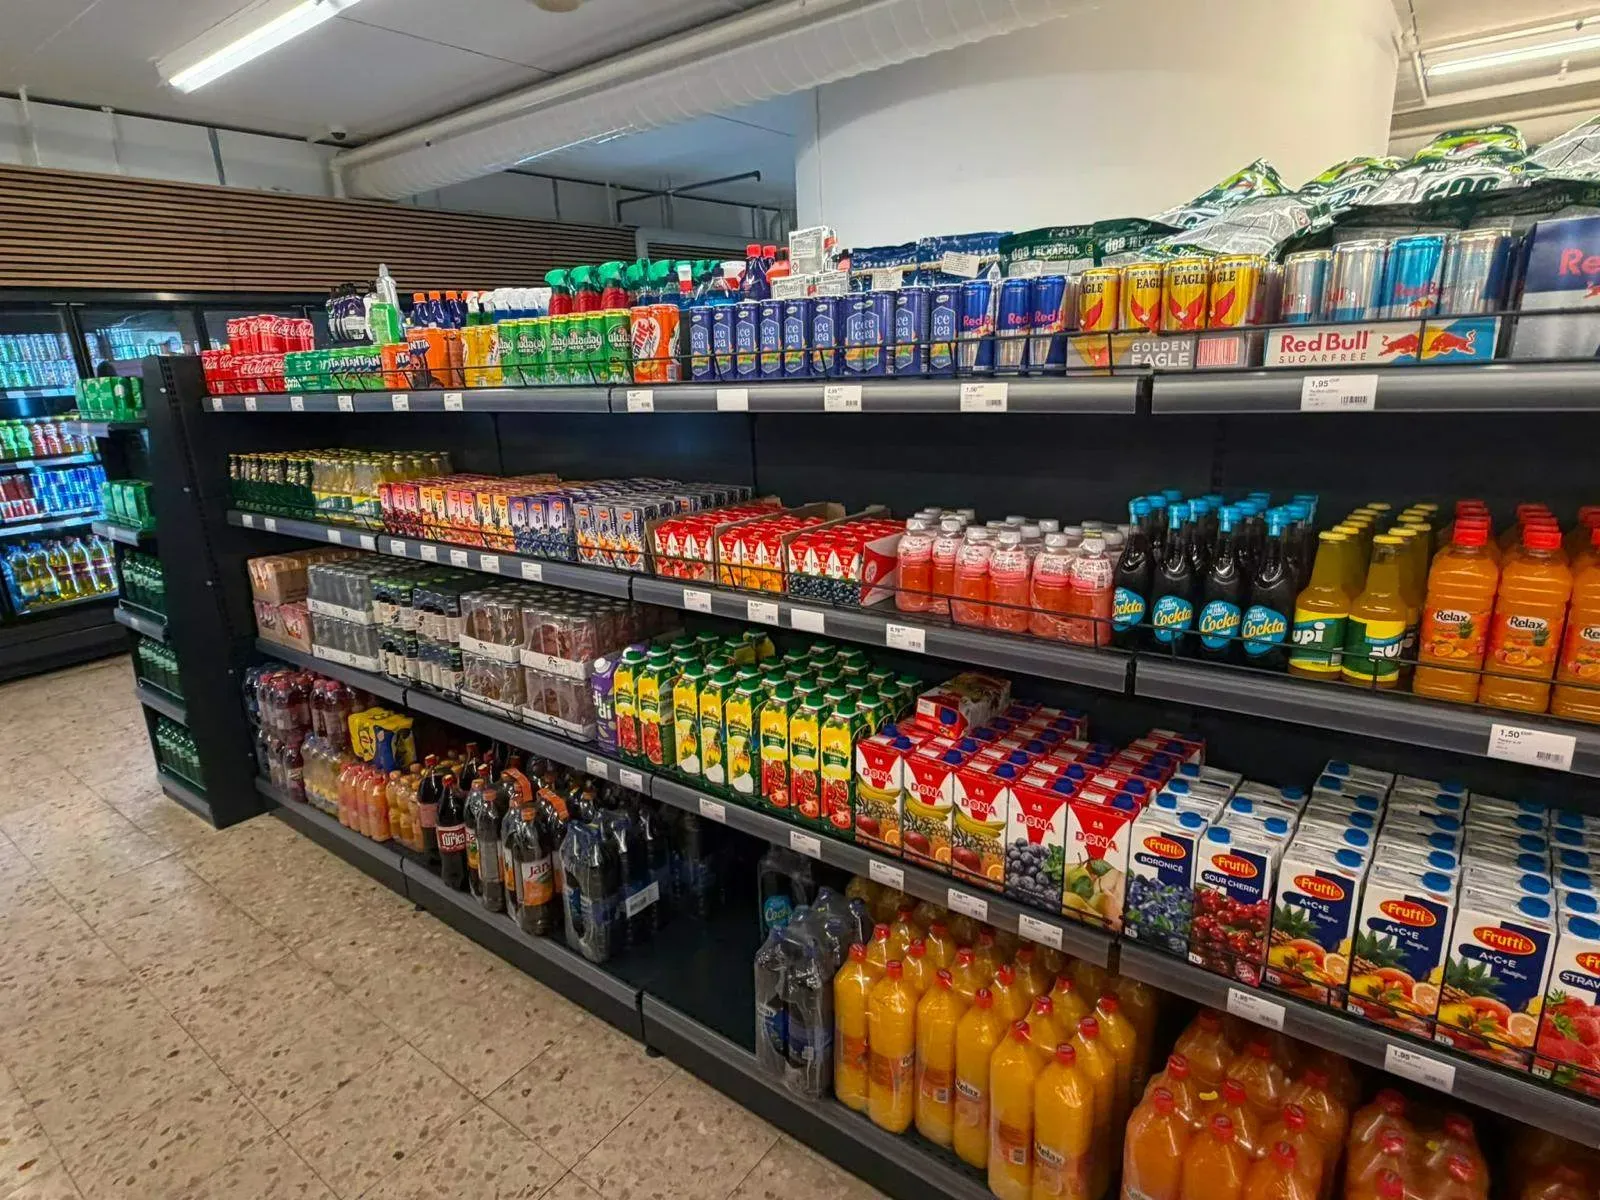
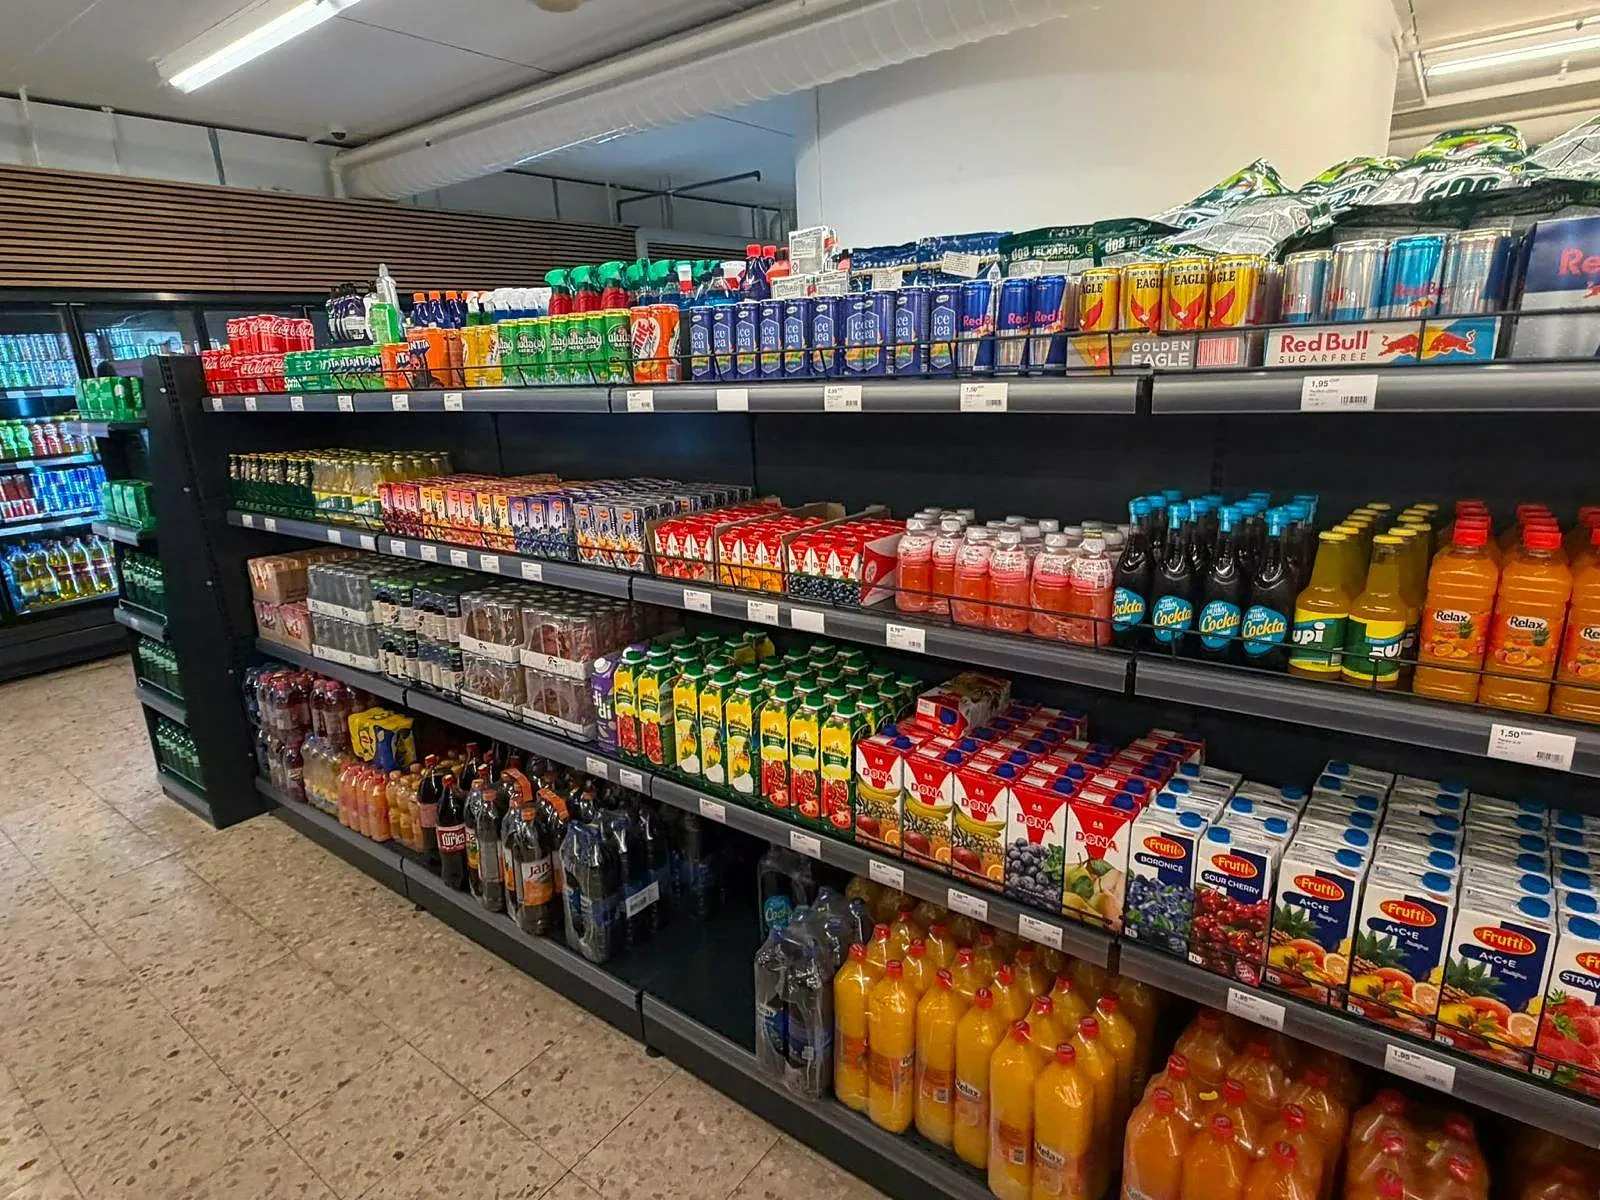
Use better framed photos for the produce and drinks slides
Swap the wide aisle shots for the fruit display and the juice shelf and
re-encode both from the originals at a higher quality with light
sharpening.

diff --git a/src/components/HeroSlider.tsx b/src/components/HeroSlider.tsx
@@ -7,8 +7,8 @@ export type Slide = { src: string; alt: string };
 
 const DEFAULT_SLIDES: Slide[] = [
   { src: "/images/kasap/lammkoteletts-theke.webp", alt: "Frische Halal-Fleischauswahl von Ali Supermarkt" },
-  { src: "/images/obst-gemuese/obst-gemuese-01.webp", alt: "Frisches Obst und Gemüse im Regal von Ali Supermarkt" },
-  { src: "/images/getraenke/getraenke-01.webp", alt: "Gekühlte Getränke im Kühlregal von Ali Supermarkt" },
+  { src: "/images/obst-gemuese/obst-gemuese-03.webp", alt: "Obstinsel mit Äpfeln, Melonen und Trauben bei Ali Supermarkt" },
+  { src: "/images/getraenke/getraenke-06.webp", alt: "Regal mit Fruchtsäften und Erfrischungsgetränken bei Ali Supermarkt" },
   { src: "/images/internationale-spezialitaeten/internationale-spezialitaeten-01.webp", alt: "Salça, Konserven und internationale Spezialitäten bei Ali Supermarkt" },
   { src: "/images/grundnahrungsmittel/grundnahrungsmittel-01.webp", alt: "Reis, Teigwaren und Grundnahrungsmittel bei Ali Supermarkt" },
   { src: "/images/suesses-knabbereien/suesses-knabbereien-01.webp", alt: "Süsses und Knabbereien bei Ali Supermarkt" },
